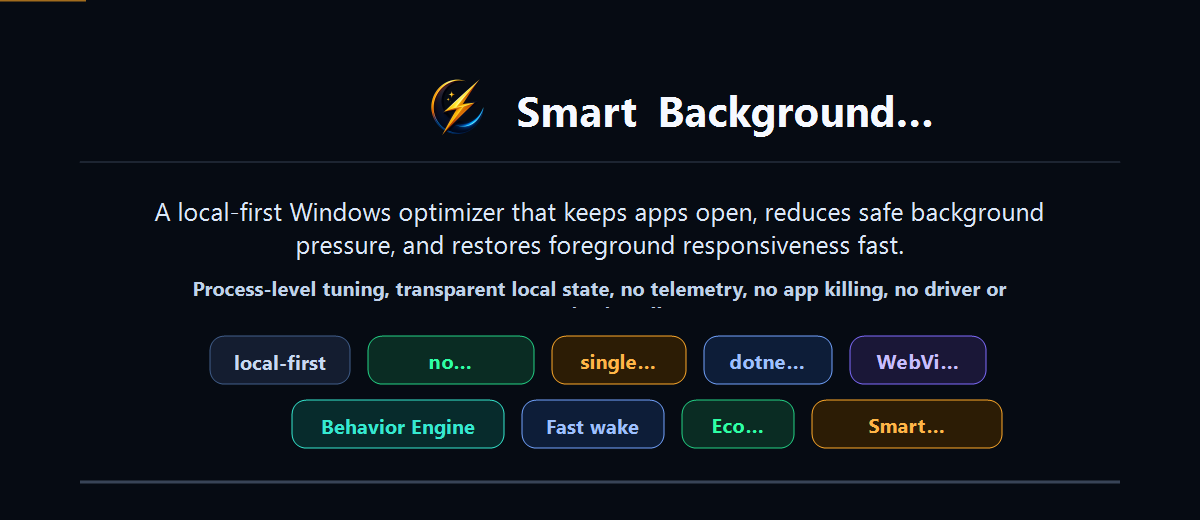
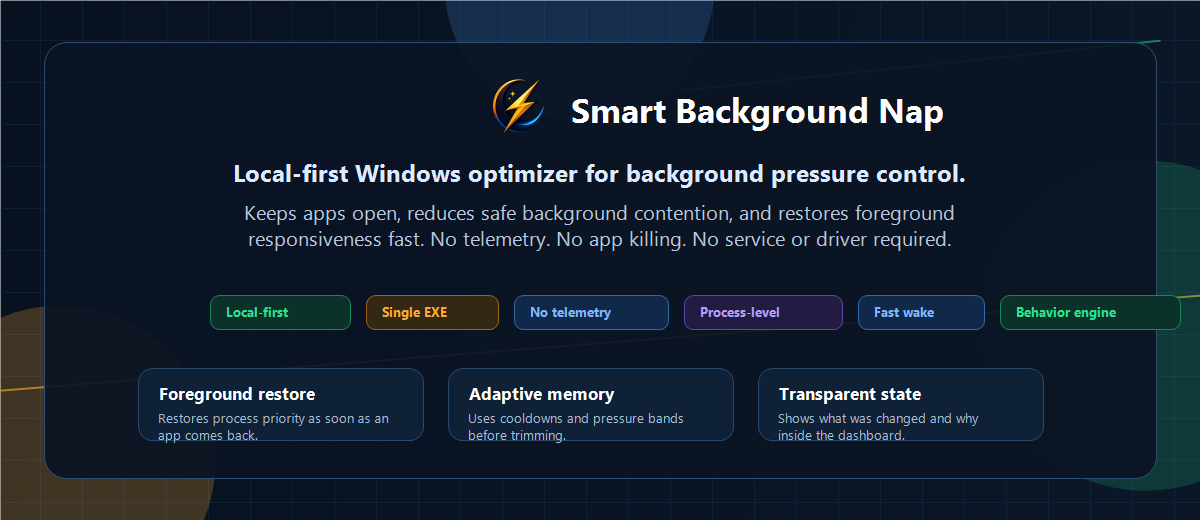
Refresh website artwork

diff --git a/index.html b/index.html
@@ -9,11 +9,11 @@
     <meta property="og:title" content="Smart Background Nap" />
     <meta property="og:description" content="Keep apps open. Quiet the background. Wake the foreground fast." />
     <meta property="og:type" content="website" />
-    <meta property="og:image" content="https://kingkaozydev.github.io/smart-background-nap/smart-nap-social-preview.png" />
+    <meta property="og:image" content="/smart-nap-social-preview.png" />
     <meta name="theme-color" content="#05080d" />
-    <link rel="icon" href="smart-nap-logo.png" />
-    <link rel="stylesheet" href="src/styles.css" />
-    <script type="module" src="src/main.js"></script>
+    <link rel="icon" href="/smart-nap-logo.png" />
+    <link rel="stylesheet" href="/src/styles.css" />
+    <script type="module" src="/src/main.js"></script>
   </head>
   <body>
     <div class="ambient" aria-hidden="true">
@@ -22,7 +22,7 @@
 
     <header class="site-header">
       <a class="brand" href="#top" aria-label="Smart Background Nap">
-        <img src="smart-nap-logo.png" alt="" />
+        <img src="/smart-nap-logo.png" alt="" />
         <span><strong>Smart Nap</strong><small>Background Control</small></span>
       </a>
       <nav>
@@ -102,7 +102,7 @@
       </section>
 
       <section class="section-shell showcase">
-        <img src="smart-nap-about-panel.png" alt="Smart Background Nap overview" />
+        <img src="/smart-nap-about-panel.png" alt="Smart Background Nap overview" />
         <div class="showcase-copy">
           <p class="eyebrow">UX clara</p>
           <h2>Feito para ficar aberto no tray e sair da frente.</h2>